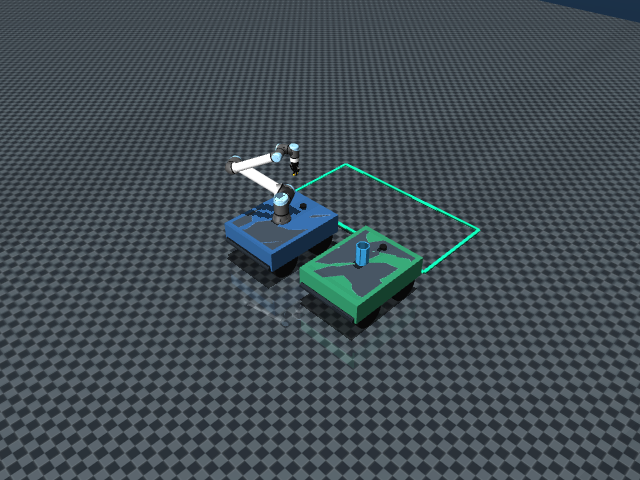
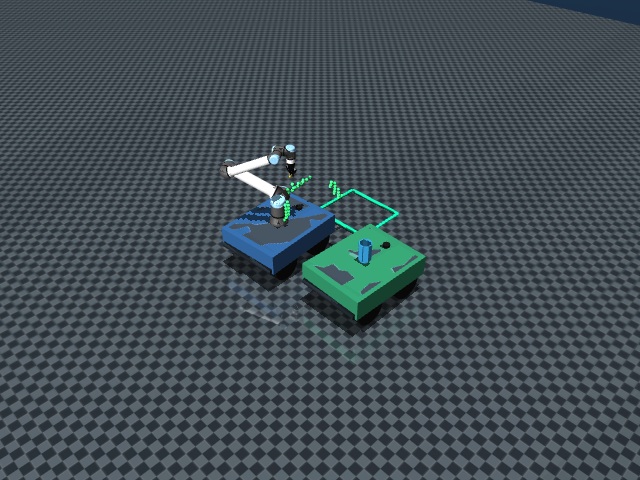
fix: 停车抖动、投放绕圈、目标区按臂展收紧
1. 停车抽动与原地漂移
- 终点最后 1.1 m 内把转向角按距离平滑回正，不再低速来回打方向
- terminal_straight 放宽到 0.80 m / 50°，让车直线进入终点后直接刹停
- 原地对准的航向容差 2° -> 6°（抓取用世界坐标解 IK，几度偏差不影响可达性）
- 实测终点段 st=0.00、左右轮速相等，无"揉库"

2. 投放绕大圈
- solve_ik_fixed 增加 seed_q：以当前关节角为求解起点与 PostureTask 目标，
  相邻目标落在同一解支，插值不再跨解支甩臂
- PostureTask 权重 0.005 -> 0.02（0.05 时抓取残差 11 mm 不可用）
- choose_grasp_spin 评分加入关节位移项（权重 3.0），同样可达时选离当前姿态最近的解
- 实测抓取残差 0.1-1.9 mm，投放桶内误差 0.001-0.007 m（原 0.009-0.025）

3. 目标区按 UR10e 臂展收紧
- 绿框 2.00 x 1.00 m -> 0.70 x 0.60 m（X ±0.35，Y 20.70-21.30），
  dual_car_scene.xml 四个边框 geom 与 TARGET_ZONE_* 常量完全对齐
- 放射源生成范围 X ±0.28、Y 20.78-21.22
- 抓取点距机械臂基座 0.94 m（水平 0.85 + 垂直 0.39），占 1.3 m 臂展的 72%

验证：seed 0-20 回归 21/21；视觉误差 8.5-10.0 mm；桶内误差 0.001-0.007 m；
最小中心距 0.966-1.070 m，车车接触 0；回起点 0.084-0.096 m。

diff --git a/dual_car_pick_place.py b/dual_car_pick_place.py
@@ -47,12 +47,14 @@ base.COMMAND_RAMP = 0.35
 # ---------------------------------------------------------------------------
 # 任务几何布局
 # ---------------------------------------------------------------------------
-TARGET_ZONE_X_MIN = -1.00
-TARGET_ZONE_X_MAX = 1.00
-TARGET_ZONE_Y_MIN = 20.50
-TARGET_ZONE_Y_MAX = 21.50
-OBJECT_X_RANGE = (-0.70, 0.70)
-OBJECT_Y_RANGE = (20.65, 21.35)
+# 目标区按 UR10e 工作空间收紧：车停在 (x, y-0.85)，抓取点只有 0.94 m 远
+# （水平 0.85 + 垂直 0.39，臂展 1.3 m，约 72%），横向摆动也从 ±0.70 收到 ±0.28。
+TARGET_ZONE_X_MIN = -0.35
+TARGET_ZONE_X_MAX = 0.35
+TARGET_ZONE_Y_MIN = 20.70
+TARGET_ZONE_Y_MAX = 21.30
+OBJECT_X_RANGE = (-0.28, 0.28)
+OBJECT_Y_RANGE = (20.78, 21.22)
 OBJECT_Z = 0.01
 
 CAR1_START = np.array([-0.70, -1.00])
@@ -868,8 +870,8 @@ class PathFollower:
         )
         terminal_straight = (
             self.index == len(self.path) - 1
-            and distance < 0.50
-            and abs(heading_error) < np.deg2rad(35.0)
+            and distance < 0.80
+            and abs(heading_error) < np.deg2rad(50.0)
         )
         # 掉头优先级高于终点直行：两者可能同时成立（终点直行看的是绕行锁存航向），
         # 若先走直行分支会把左右轮速同时写成 0，彻底卡死。
@@ -899,6 +901,12 @@ class PathFollower:
             steer_target = float(
                 np.clip(steer_target, -base.STEER_MAX, base.STEER_MAX)
             )
+            # 最后 1.1 m 内把方向盘平滑回正：否则低速误差会让前轮来回打方向，
+            # 车体被惯性带着侧滑抖动（用户观察到的"揉库"）。
+            if self.index == len(self.path) - 1:
+                steer_target *= float(
+                    np.clip((distance - 0.30) / 0.80, 0.0, 1.0)
+                )
             yaw_rate = (
                 forward * float(np.tan(steer_target)) / base.STEER_WHEELBASE
                 if forward > 0.02
@@ -927,6 +935,7 @@ class PathFollower:
                 f"avoid={int(self.avoid_active)} side={self.avoid_side:+.0f} "
                 f"pivot={int(pivoting)} term={int(terminal_straight)} "
                 f"cmd=({car.left_cmd:+.1f},{car.right_cmd:+.1f}) "
+                f"st={car.steer_cmd:+.2f} "
                 f"wq=["
                 + " ".join(
                     f"{base.DATA.qvel[base.MODEL.jnt_dofadr[base.MODEL.actuator_trnid[a, 0]]]:+.1f}"
@@ -981,7 +990,9 @@ class SkidTurnFollower:
         car = self.car
         pos, yaw = car.pose()
         error = base.wrap_angle(self.target_heading - yaw)
-        if abs(error) <= np.deg2rad(2.0):
+        # 航向容差放宽到 6°：抓取与投放都用世界坐标解 IK，几度偏差不影响可达性，
+        # 却能让车少做一次原地"揉库"。
+        if abs(error) <= np.deg2rad(6.0):
             self.done = True
             car.set_motion(0.0, 0.0, 0.0)
             print(
@@ -1767,10 +1778,12 @@ def choose_grasp_spin(
 异常：
     最优位置残差超过 5 mm 时抛 RuntimeError。
 评分：
-    score=误差(mm)+10*舒适度，舒适度用关节归一化角的均方根近似。
+    score=误差(mm)+10*舒适度+3*关节位移，舒适度用关节归一化角的均方根近似；
+    关节位移项让同样可达时优先选离当前姿态最近的解。
 重要性等级：A"""
     target_fixed, _ = base.world_target_to_fixed(target_world)
     q_base = Rotation.from_quat(base.TARGET_QUAT, scalar_first=True)
+    q_now = base.DATA.qpos[base.ARM_QADR].copy()
     best_angle = 0.0
     best_error = float("inf")
     best_comfort = float("inf")
@@ -1779,9 +1792,13 @@ def choose_grasp_spin(
         q_candidate = (
             q_base * Rotation.from_euler(GRASP_SPIN_AXIS, np.deg2rad(angle_deg))
         ).as_quat(scalar_first=True)
-        q_solution, error = base.solve_ik_fixed(target_fixed, q_candidate)
+        q_solution, error = base.solve_ik_fixed(
+            target_fixed, q_candidate, seed_q=q_now
+        )
         comfort = float(np.sqrt(np.mean((q_solution / np.pi) ** 2)))
-        score = error * 1000.0 + 10.0 * comfort
+        # 关节位移惩罚：同样可达时优先选离当前姿态最近的解，减少甩臂。
+        travel = float(np.mean(np.abs(q_solution - q_now)))
+        score = error * 1000.0 + 10.0 * comfort + 3.0 * travel
         if score < best_score:
             best_score = score
             best_error = error

diff --git a/mobile_pick_place.py b/mobile_pick_place.py
@@ -252,7 +252,9 @@ OBJ_QADR = int(MODEL.jnt_qposadr[OBJ_JOINT])
 # 固定基座 IK 求解器，复用于移动底盘上的机械臂
 # ---------------------------------------------------------------------------
 IK_POSTURE_COST = np.zeros(IK_MODEL.nv)
-IK_POSTURE_COST[:6] = 0.005
+# 关节位移惩罚：以“当前关节角”为目标而非固定 HOME，配合 solve_ik_fixed 的 seed_q，
+# 强制 IK 选择离当前姿态最近、关节变化最小的解，避免投放时甩大圈。
+IK_POSTURE_COST[:6] = 0.02
 
 
 _ik_probe = mujoco.MjData(IK_MODEL)
@@ -265,6 +267,7 @@ TARGET_ROT = Rotation.from_quat(TARGET_QUAT, scalar_first=True).as_matrix()
 def solve_ik_fixed(
     target_pos: np.ndarray,
     target_quat: np.ndarray = TARGET_QUAT,
+    seed_q: np.ndarray | None = None,
 ) -> tuple[np.ndarray, float]:
     """在固定基座 IK 模型中求解 6 轴机械臂关节角。
 
@@ -282,8 +285,9 @@ def solve_ik_fixed(
 排查：
     残差异常大时先确认目标是否在可达空间，再检查 frame_name、四元数顺序和姿态约束。
 重要性等级：A"""
+    seed = HOME_QPOS if seed_q is None else np.asarray(seed_q, dtype=float)[:6]
     tmp = mujoco.MjData(IK_MODEL)
-    tmp.qpos[:6] = HOME_QPOS
+    tmp.qpos[:6] = seed
     tmp.qpos[6:8] = 0.0
     mujoco.mj_forward(IK_MODEL, tmp)
 
@@ -298,7 +302,7 @@ def solve_ik_fixed(
     )
     posture = mink.PostureTask(IK_MODEL, cost=IK_POSTURE_COST)
     posture_target = tmp.qpos.copy()
-    posture_target[:6] = HOME_QPOS
+    posture_target[:6] = seed
     posture.set_target(posture_target)
 
     quat = np.asarray(target_quat, dtype=float)
@@ -429,7 +433,11 @@ class ArmMotion:
 异常：
     不可达目标通常表现为较大残差，而不是直接抛异常。
 重要性等级：A"""
-        q_target, error = solve_ik_fixed(target_pos_fixed, target_quat)
+        # 以当前关节角作为 IK 种子：相邻目标（预投放→投放→收回）落在同一解支，
+        # 插值路径不会跨解支甩大圈。
+        q_target, error = solve_ik_fixed(
+            target_pos_fixed, target_quat, seed_q=DATA.qpos[ARM_QADR]
+        )
         self.q_start = DATA.qpos[ARM_QADR].copy()
         self.q_target = q_target
         self.q_hold = q_target.copy()

diff --git a/README.md b/README.md
@@ -116,6 +116,10 @@ mobile_manipulator/
 5. 一号车将圆柱投入二号车屏蔽桶，随后两车倒车脱离辐射区并正向精准返航。
 6. 终态检查：物体在桶内、两车回到起点、车车物理接触数为 0。
 
+目标区按 UR10e 工作空间收紧为 `0.70 × 0.60 m`（X `±0.35`，Y `20.70 ~ 21.30`），
+放射源在该框内随机；`dual_car_pick_place.py` 的 `TARGET_ZONE_*` 常量与
+`dual_car_scene.xml` 的四个绿色边框 geom 一一对应，改一处必须同步另一处。
+
 ## 视觉四层架构
 
 1. `get_camera_data()`：MuJoCo `Renderer` 采集 RGB/depth；ROS2 中替换为 D435i 图像话题订阅。
@@ -139,11 +143,11 @@ D:\Python313\python.exe .\scripts\run_matrix.py --seeds 0-20
 `seed 0–20`（21 个）当前基线：
 
 - 通过率：`21/21`
-- D435i 视觉坐标误差：`8.1 ~ 10.0 mm`
-- 桶内 XY 误差：`0.009 ~ 0.025 m`（容差 `0.05 m`）
-- 两车最小中心距：`0.883 ~ 1.059 m`（安全阈值 `0.82 m`），物理接触 `0`
-- 回起点误差：CAR1 `0.083 ~ 0.091 m`，CAR2 `0.080 ~ 0.095 m`（阈值 `0.20 m`）
-- 单次仿真时长：`51.6 ~ 54.9 s`
+- D435i 视觉坐标误差：`8.5 ~ 10.0 mm`
+- 桶内 XY 误差：`0.001 ~ 0.007 m`（容差 `0.05 m`）
+- 两车最小中心距：`0.966 ~ 1.070 m`（安全阈值 `0.82 m`），物理接触 `0`
+- 回起点误差：CAR1 `0.084 ~ 0.086 m`，CAR2 `0.090 ~ 0.096 m`（阈值 `0.20 m`）
+- 单次仿真时长：`51.8 ~ 52.7 s`
 
 ## 跨平台路径
 
